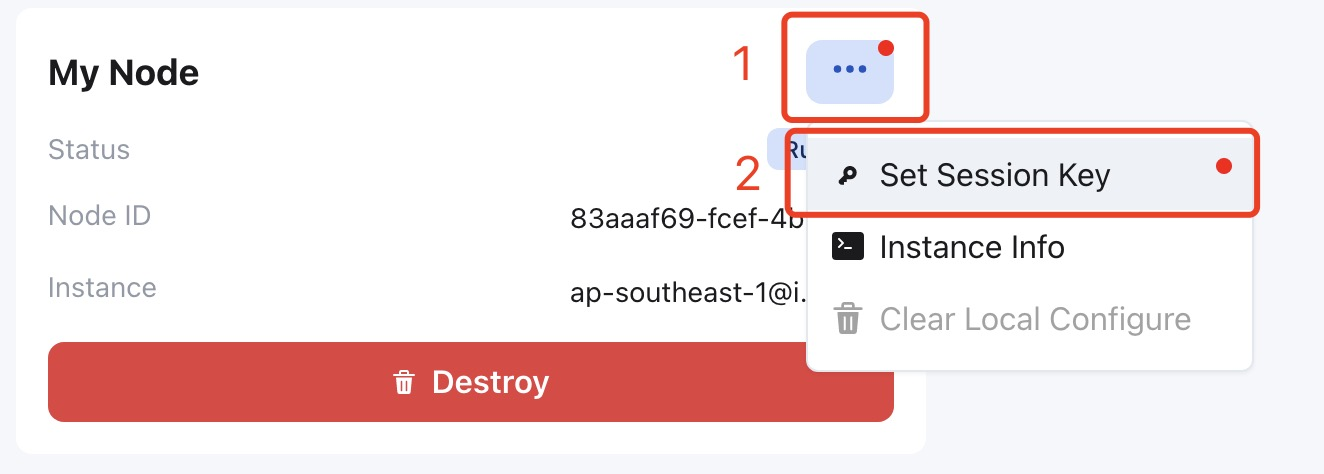
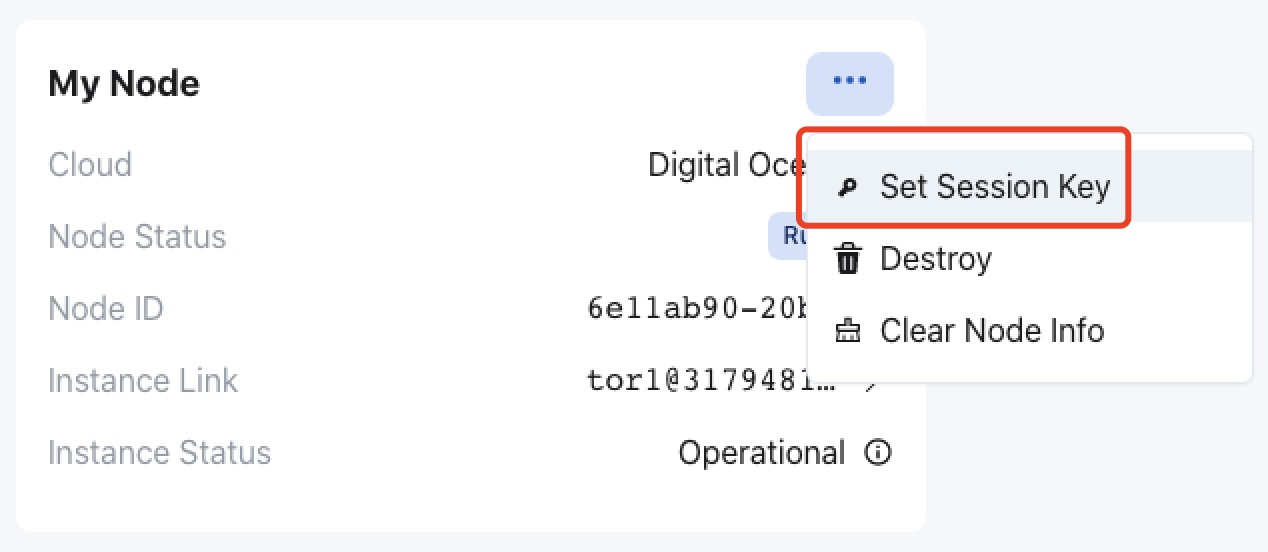
updates for rewards and redelegate

diff --git a/src/maintain/validator-register.md b/src/maintain/validator-register.md
@@ -52,9 +52,9 @@ Check whether the return value is consistent with the Session keys you have set.
 
 ### Claim rewards
 
-After a reward cycle (~1 day), the validator will receive the staking reward, which needs to be claimed manually. In the **My Staking** area, click **Rewards** , and then click the `Claim All` button to claim the reward.
+After a reward cycle (~1 day), the validator will receive the staking reward, which needs to be claimed manually. In the **My Rewards** area, click **Claim** , and then click the `Claim All` button to claim the reward.
 
-![my staking](../images/maintain/my_staking.jpg)
+![my rewards](../images/maintain/my_rewards.jpg)
 
 ![validator claim rewards](../images/maintain/validator_claim_rewards.jpg)
 
@@ -78,7 +78,9 @@ Click the `Unbond Validator` button on the `Validator Profile` page to perform t
 
 ### Stop the validator node
 
-For the node which was deployed via the automatic deployment service, the validator can click the `Destory` button in the **My Node** area to stop the validator node and delete the instance of automatic deployment.
+For the node which was deployed via the automatic deployment service, the validator can click `...` and select `Destory` in the **My Node** area to stop the validator node and delete the instance of automatic deployment.
+
+![validator destory node](../images/maintain/validator_destory_node.jpg)
 
 For the node which was deployed manually, please remember to stop it.
 
@@ -86,7 +88,7 @@ For the node which was deployed manually, please remember to stop it.
 
 ### Withdraw staking OCT
 
-Click `...` and select `Withdraw Stakes` on the **My Staking** area.
+Click `...` and select `Withdraw Stakes` on the **My Rewards** area.
 
 ![unbond withdraw](../images/maintain/unbond_withdraw.jpg)
 

diff --git a/src/maintain/delegator-operations.md b/src/maintain/delegator-operations.md
@@ -7,22 +7,20 @@ After the delegation, the delegator could select the delegated validator and cli
 Delegator can do the below operations on the `Validator Profile` page.
 
 * Increase/Decrease delegation
-* Claim rewards
+* Redelegate
 * Unbond delegation
 
 ### Increase/Decrease delegation
 
 Click `+` or `-` to increase or decrease the delegation amount on the `Validator Profile` page.
 
-### Claim rewards
+### Redelegate
 
-After a reward cycle (~1 day), the delegator will obtain the staking rewards, which need to be claimed manually. In the **My Staking** area, click **Rewards** , and then click the `Claim All` button to claim the reward.
+The delegator can change to another validator on the same Appchain without the waiting period via the redelegate operation.
 
-![my staking](../images/maintain/my_staking.jpg)
+Click the `Redelegate` button on the `Validator Profile` page to perform the redelegate operation.
 
-![delegator claim reward](../images/maintain/delegator_claim_rewards.jpg)
-
-**Warning**: The delegator needs to claim the rewards in time, and the rewards that exceed 84 days will not be claimable.
+![redelegate](../images/maintain/delegator_redelegate.jpg)
 
 ### Unbond delegation
 
@@ -34,7 +32,7 @@ Click the `Unbond Delegation` button on the `Validator Profile` page to perform 
 
 ### Withdraw OCT
 
-It is the same as the validator. Click `...` and select `Withdraw Stakes` on the **My Staking** area.
+It is the same as the validator. Click `...` and select `Withdraw Stakes` on the **My Rewards** area.
 
 ![unbond withdraw](../images/maintain/unbond_withdraw.jpg)
 

diff --git a/src/cn/maintain/validator-register.md b/src/cn/maintain/validator-register.md
@@ -48,9 +48,9 @@
 
 ### 领取质押奖励
 
-在一个奖励周期大约 1 天后，验证人将会获得质押奖励，需要手动领取。在 **My Staking** 区域，点击**Rewards**，然后点击`Claim All`按钮领取奖励。
+在一个奖励周期大约 1 天后，验证人将会获得质押奖励，需要手动领取。在 **My Rewards** 区域，点击**Claim**，然后点击`Claim All`按钮领取奖励。
 
-![my staking](../../images/maintain/my_staking.jpg)
+![my rewards](../../images/maintain/my_rewards.jpg)
 
 ![validator claim rewards](../../images/maintain/validator_claim_rewards.jpg)
 
@@ -74,7 +74,9 @@
 
 ### 停止验证节点
 
-对于通过自动部署服务部署的验证节点，验证人可以点击 **My Node** 区域中的 `Destory` 按钮停止验证节点并删除自动部署的实例。
+对于通过自动部署服务部署的验证节点，验证人可以在 **My Node** 区域中点击`···`，选择 `Destory` 停止验证节点并删除自动部署的实例。
+
+![validator destory node](../../images/maintain/validator_destory_node.jpg)
 
 手动部署的验证节点，验证人请记得停掉它。
 
@@ -82,7 +84,7 @@
 
 ### 提现质押的 OCT
 
-在应用链的 **My Staking** 区域，点击`···`，选择`Withdraw Stakes`。
+在应用链的 **My Rewards** 区域，点击`···`，选择`Withdraw Stakes`。
 
 ![unbond withdraw](../../images/maintain/unbond_withdraw.jpg)
 

diff --git a/src/cn/maintain/delegator-operations.md b/src/cn/maintain/delegator-operations.md
@@ -7,22 +7,20 @@
 可以进行以下操作：
 
 * 增加/减少质押量
-* 领取质押奖励
+* 重新委托质押
 * 解除委托
 
 ### 增加/减少质押量
 
 在`Validator Profile`页面中，点击`+`或者`-`，可以增加或者减少质押量。
 
-### 领取质押奖励
+### 重新委托质押
 
-在委托质押一个奖励周期大约 1 天后，委托人将会获得质押奖励，需要手动领取。在 **My Staking** 区域，点击**Rewards**，然后点击`Claim All`按钮领取奖励。
+委托人可以通过重新委托操作选择同一条应用链上的其它验证人进行无等待期的验证人更换。
 
-![my staking](../../images/maintain/my_staking.jpg)
+如果想要重新委托质押，在`Validator Profile`页面中，点击`Redelegate`按钮执行重新委托质押操作。
 
-![delegator claim reward](../../images/maintain/delegator_claim_rewards.jpg)
-
-**警告**：委托人需要及时领取质押奖励，超过 84 天的奖励将无法领取。
+![redelegate](../../images/maintain/delegator_redelegate.jpg)
 
 ### 解除委托
 
@@ -34,7 +32,7 @@
 
 ### 提现质押的 OCT
 
-与验证人相同，在应用链的 **My Staking** 区域，点击`···`，选择`Withdraw Stakes`。
+与验证人相同，在应用链的 **My Rewards** 区域，点击`···`，选择`Withdraw Stakes`。
 
 ![unbond withdraw](../../images/maintain/unbond_withdraw.jpg)
 

diff --git a/src/maintain/validator-deploy.md b/src/maintain/validator-deploy.md
@@ -39,7 +39,7 @@ The configuration and approximate cost of each Appchain validator node which is 
 For the validator who need to change the VPS provider of the deployed node, please follow these steps:
 
 1. Keep the old validator node running;
-2. Deploy a new validator node. For the node which was deployed via the automatic deployment service, please `Clear Local Storage` if needed.
-![validator clear local](../images/maintain/validator_clear_local.jpg)
+2. Deploy a new validator node. For the node which was deployed via the automatic deployment service, please `Clear Node Info` if needed.
+![validator clear node info](../images/maintain/validator_clear_nodeinfo.jpg)
 3. When the new node done the synchronization, please [set the Session Key](./validator-register.md#set-session-key) for the new validator node;
 4. The validator could [stop](./validator-register.md#stop-the-validator-node) the old validator node until the next reward cycle.

diff --git a/src/maintain/delegator-delegate.md b/src/maintain/delegator-delegate.md
@@ -17,3 +17,13 @@ The delegation steps are as follows:
 ![delegator delegate](../images/maintain/delegator_delegate.jpg)
 
 The delegation will become active in the next reward cycle (~1 day), and then the delegator will obtain the staking rewards.
+
+### Claim rewards
+
+After a reward cycle (~1 day), the delegator will obtain the staking rewards, which need to be claimed manually. In the **My Rewards** area, click **Claim** , and then click the `Claim All` button to claim the reward.
+
+![my rewards](../images/maintain/my_rewards.jpg)
+
+![delegator claim reward](../images/maintain/delegator_claim_rewards.jpg)
+
+**Warning**: The delegator needs to claim the rewards in time, and the rewards that exceed 84 days will not be claimable.

diff --git a/src/cn/maintain/delegator-delegate.md b/src/cn/maintain/delegator-delegate.md
@@ -17,3 +17,13 @@
 ![delegator delegate](../../images/maintain/delegator_delegate.jpg)
 
 委托质押将在下一个奖励周期大约 1 天后生效，生效后委托人将获得质押奖励。
+
+### 领取质押奖励
+
+在委托质押一个奖励周期大约 1 天后，委托人将会获得质押奖励，需要手动领取。在 **My Rewards** 区域，点击**Claim**，然后点击`Claim All`按钮领取奖励。
+
+![my rewards](../../images/maintain/my_rewards.jpg)
+
+![delegator claim reward](../../images/maintain/delegator_claim_rewards.jpg)
+
+**警告**：委托人需要及时领取质押奖励，超过 84 天的奖励将无法领取。
